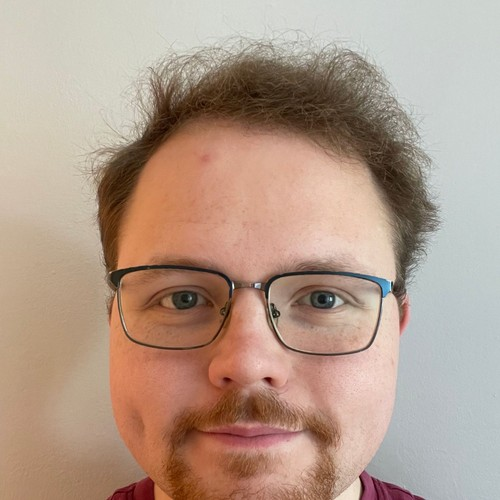
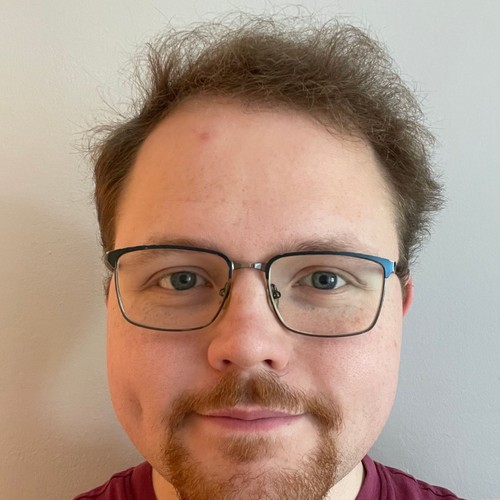
Finish the intro deck: sharper diagrams, real servo photos, fixed layout
Tim's photo re-cropped with headroom from the new source image. The four-bar
sketch is redrawn as a vector so it stays sharp, labelled crank / coupler /
follower / ground, with its canvas trimmed so nothing is clipped; the raster
version and the two unused servo drawings go. Two openly-licensed servo photos
replace the drawn placeholders on the boundary slide: a standard pair (public
domain) and a cutaway showing motor, gear train, board and pot (CC BY-SA 3.0).

Photo rows go back to plain markdown images now the background-image path bug
is fixed. Markdown wraps them in a paragraph, so the strip and the photo rows
lay that paragraph out and cap image height, which keeps the bullets on slides
2, 5, 18 and 19 inside the slide.

Rooms are "QB PLT" and "in Queens Building", not "the Queens Building".

diff --git a/slides/intro/index.md b/slides/intro/index.md
@@ -11,10 +11,9 @@ author: "Dr. Steve Bullock"
 
 <style>
 /* Five-across team row: square portraits, name, then roles. */
-.people { display: flex; gap: 1.1em; align-items: flex-start; margin-top: 0.4em; }
-.people > div { flex: 1; text-align: center; font-size: 0.74em; line-height: 1.3; }
-.people .pic { width: 100%; aspect-ratio: 1 / 1; background-size: cover; background-position: center;
-               border-radius: 6px; margin-bottom: 0.35em; }
+.people { display: flex; gap: 1.1em; }
+.people p { flex: 1; text-align: center; font-size: 0.74em; line-height: 1.3; margin: 0; }
+.people img { width: 100%; border-radius: 6px; margin-bottom: 0.3em; }
 .people strong { display: block; }
 
 /* Compact table, for room lists and schedules that would otherwise overflow. */
@@ -23,13 +22,13 @@ author: "Dr. Steve Bullock"
 
 /* A row of photographs with captions underneath. */
 .shots { display: flex; gap: 0.9em; align-items: flex-start; }
-.shots > div { flex: 1; text-align: center; font-size: 0.7em; line-height: 1.3; }
-.shots .pic { width: 100%; height: 270px; background-size: cover; background-position: center;
-              border-radius: 4px; margin-bottom: 0.3em; }
-.shots.small .pic { height: 165px; background-size: contain; background-repeat: no-repeat; }
-.shots.small > div { font-size: 0.64em; }
-.strip { display: flex; gap: 0.8em; margin-top: 0.6em; }
-.strip .pic { flex: 1; height: 190px; background-size: cover; background-position: center; border-radius: 4px; }
+.shots p { flex: 1; text-align: center; font-size: 0.7em; line-height: 1.3; margin: 0; }
+.shots img { width: 100%; max-height: 230px; object-fit: cover; border-radius: 4px; margin-bottom: 0.3em; }
+.shots.small p { font-size: 0.64em; }
+.shots.small img { max-height: 150px; object-fit: contain; }
+/* Markdown puts the strip's three images in one paragraph, so lay that out. */
+.strip p { display: flex; gap: 0.8em; margin: 0.5em 0 0; }
+.strip img { width: 33%; max-height: 190px; object-fit: cover; border-radius: 4px; }
 
 /* Video: live embed on screen, a linked still in the PDF. */
 @media print { .only-html { display: none !important; } }
@@ -72,9 +71,11 @@ What it does in your aircraft · what the requirements ask for · integration ·
 What has to move · the design task · where it meets avionics · the sessions
 
 <div class="strip">
-<div class="pic" style="background-image:url('../../docs/assets/intro/tunnel-students.jpg')"></div>
-<div class="pic" style="background-image:url('../../docs/assets/intro/servos-installed.jpg')"></div>
-<div class="pic" style="background-image:url('../../docs/assets/intro/servo-micro.jpg')"></div>
+
+![](../../docs/assets/intro/tunnel-students.jpg)
+![](../../docs/assets/intro/servos-installed.jpg)
+![](../../docs/assets/intro/servo-micro.jpg)
+
 </div>
 
 ---
@@ -82,31 +83,28 @@ What has to move · the design task · where it meets avionics · the sessions
 # Who's who
 
 <div class="people">
-<div>
-<div class="pic" style="background-image:url('../../docs/assets/people/bullock.jpg')"></div>
-<strong>Steve Bullock</strong>
-Avionics<br>Mechanisms
-</div>
-<div>
-<div class="pic" style="background-image:url('../../docs/assets/people/burns.jpg')"></div>
-<strong>George Burns</strong>
+
+![](../../docs/assets/people/bullock.jpg)
+**Steve Bullock**
 Avionics
-</div>
-<div>
-<div class="pic" style="background-image:url('../../docs/assets/people/ward.jpg')"></div>
-<strong>Tim Ward</strong>
+Mechanisms
+
+![](../../docs/assets/people/burns.jpg)
+**George Burns**
 Avionics
-</div>
-<div>
-<div class="pic" style="background-image:url('../../docs/assets/people/graham.jpg')"></div>
-<strong>Mark Graham</strong>
+
+![](../../docs/assets/people/ward.jpg)
+**Tim Ward**
+Avionics
+
+![](../../docs/assets/people/graham.jpg)
+**Mark Graham**
 Mechanisms
-</div>
-<div>
-<div class="pic" style="background-image:url('../../docs/assets/people/maes.jpg')"></div>
-<strong>Vince Maes</strong>
+
+![](../../docs/assets/people/maes.jpg)
+**Vince Maes**
 Mechanisms
-</div>
+
 </div>
 
 <!--
@@ -130,15 +128,15 @@ Aerial Robotics project; mention him if useful.
 | **Avionics lab** | [QB M.003](https://link.mazemap.com/uXsLo5fv) | Kit issue and return, supervised tool use |
 | **Design Suite** | [QB 1.59](https://link.mazemap.com/o5Xo8oWt) | Mechanisms sessions, Thursdays |
 | **The Hangar** | [QB L.080](https://link.mazemap.com/2QMWAiXk) | Main lab, open access |
-| **Here** | [PLT](https://link.mazemap.com/KkMVJJVS) | Pugsley Lecture Theatre |
+| **Here** | [QB PLT](https://link.mazemap.com/KkMVJJVS) | Pugsley Lecture Theatre |
 
 </div>
 
-Room numbers link to the map. All of these are in the Queen's Building.
+Room numbers link to the map. All of these are in Queens Building.
 
 <!--
 MazeMap share links, also kept in teaching/rooms.md so other units can reuse
-them. The Hangar (L.080) is in the Queen's Building too.
+them. The Hangar (L.080) is in Queens Building too.
 -->
 
 ---
@@ -146,14 +144,20 @@ them. The Hangar (L.080) is in the Queen's Building too.
 # The model is only as good as what moves it
 
 <div class="shots">
-<div><div class="pic" style="background-image:url('../../docs/assets/intro/tunnel-model.jpg')"></div>Last year's fuselage in the 7×5 tunnel</div>
-<div><div class="pic" style="background-image:url('../../docs/assets/intro/tunnel-students.jpg')"></div>Photos: Ross Dewar</div>
+
+![](../../docs/assets/intro/tunnel-model.jpg)
+Last year's fuselage in the 7×5 tunnel
+
+![](../../docs/assets/intro/tunnel-students.jpg)
+Photos: Ross Dewar
+
 </div>
 
 * Your model has **control surfaces**, and something has to move them repeatably
 * Your test campaign needs **data** — measured, time-stamped, logged
 * Your aerodynamicists need **the angle you asked for**, not the one you got
 * Avionics and mechanisms turn foam and carbon into an **instrumented test article**
+
 
 ---
 
@@ -368,8 +372,13 @@ elevator and rudder, 5 for flap and aileron.
 # The design task
 
 <div class="shots">
-<div><div class="pic" style="background-image:url('../../docs/assets/intro/four-bar.png')"></div>Crank, coupler, follower, ground</div>
-<div><div class="pic" style="background-image:url('../../docs/assets/intro/linkage-app.png')"></div>The same thing in the Linkage app</div>
+
+![](../../docs/assets/intro/four-bar.svg)
+The parts of a **4-bar linkage**
+
+![](../../docs/assets/intro/linkage-app.png)
+A flap mechanism drawn and simulated in the Linkage app
+
 </div>
 
 <div class="columns">
@@ -387,15 +396,22 @@ elevator and rudder, 5 for flap and aileron.
 </div>
 </div>
 
+
 ---
 
 # Where mechanisms meets avionics
 
-![bg right:34% contain](../../docs/assets/intro/servo-cutaway.svg)
-
 <div class="shots small">
-<div><div class="pic" style="background-image:url('../../docs/assets/intro/servo-micro.jpg')"></div>Blue micro servos — also HJ and Parallax standard servos</div>
-<div><div class="pic" style="background-image:url('../../docs/assets/intro/servo-tester.svg')"></div>Mechanisms prove the motion on a <strong>servo tester</strong> first</div>
+
+![](../../docs/assets/intro/servo-standard.jpg)
+Standard servos — HJ and Parallax. The kit also has blue micro servos
+
+![](../../docs/assets/intro/servo-inside.jpg)
+Inside one: motor, gear train, board — and a pot reading the output shaft
+
+![](../../docs/assets/intro/servo-tester.svg)
+Proved on a **servo tester** before the flight controller
+
 </div>
 
 * **The boundary is the servo cable**
@@ -408,7 +424,9 @@ The cutaway: demand in on the signal wire, the pot measures the output angle,
 the board drives the motor until the two agree. The loop is inside the servo -
 which is why the cable, not the shaft, is where we draw the interface.
 
-Servo photo: Tower Pro SG90 by Suyash Dwivedi, Wikimedia Commons, CC BY-SA 4.0.
+Photo credits: standard servos by Kborer (public domain); servo internals by
+Jstapko, CC BY-SA 3.0; micro servo by Suyash Dwivedi, CC BY-SA 4.0 - all from
+Wikimedia Commons. The tester is drawn.
 No openly licensed photograph of an HJ or Parallax servo, or of a tester,
 exists - the tester is drawn. A lab photograph would be better than both.
 -->
@@ -426,9 +444,16 @@ agreed to draw the line. Every interface is a choice like that.
 # Learn from what broke last year
 
 <div class="shots">
-<div><div class="pic" style="background-image:url('../../docs/assets/intro/avoid-glued.jpg')"></div>Actuator cable-tied <strong>and glued</strong> to the false rear spar</div>
-<div><div class="pic" style="background-image:url('../../docs/assets/intro/avoid-nowashers.jpg')"></div>Weak linkages, <strong>no washers</strong>, nothing to reduce friction</div>
-<div><div class="pic" style="background-image:url('../../docs/assets/intro/avoid-threadedrod.jpg')"></div><strong>Threaded rod</strong> as a pivot, into an oversize hole and into the foam</div>
+
+![](../../docs/assets/intro/avoid-glued.jpg)
+Actuator cable-tied **and glued** to the false rear spar
+
+![](../../docs/assets/intro/avoid-nowashers.jpg)
+Weak linkages, **no washers**, nothing to reduce friction
+
+![](../../docs/assets/intro/avoid-threadedrod.jpg)
+**Threaded rod** as a pivot, into an oversize hole and into the foam
+
 </div>
 
 * Start simple, prototype early, design for disassembly
